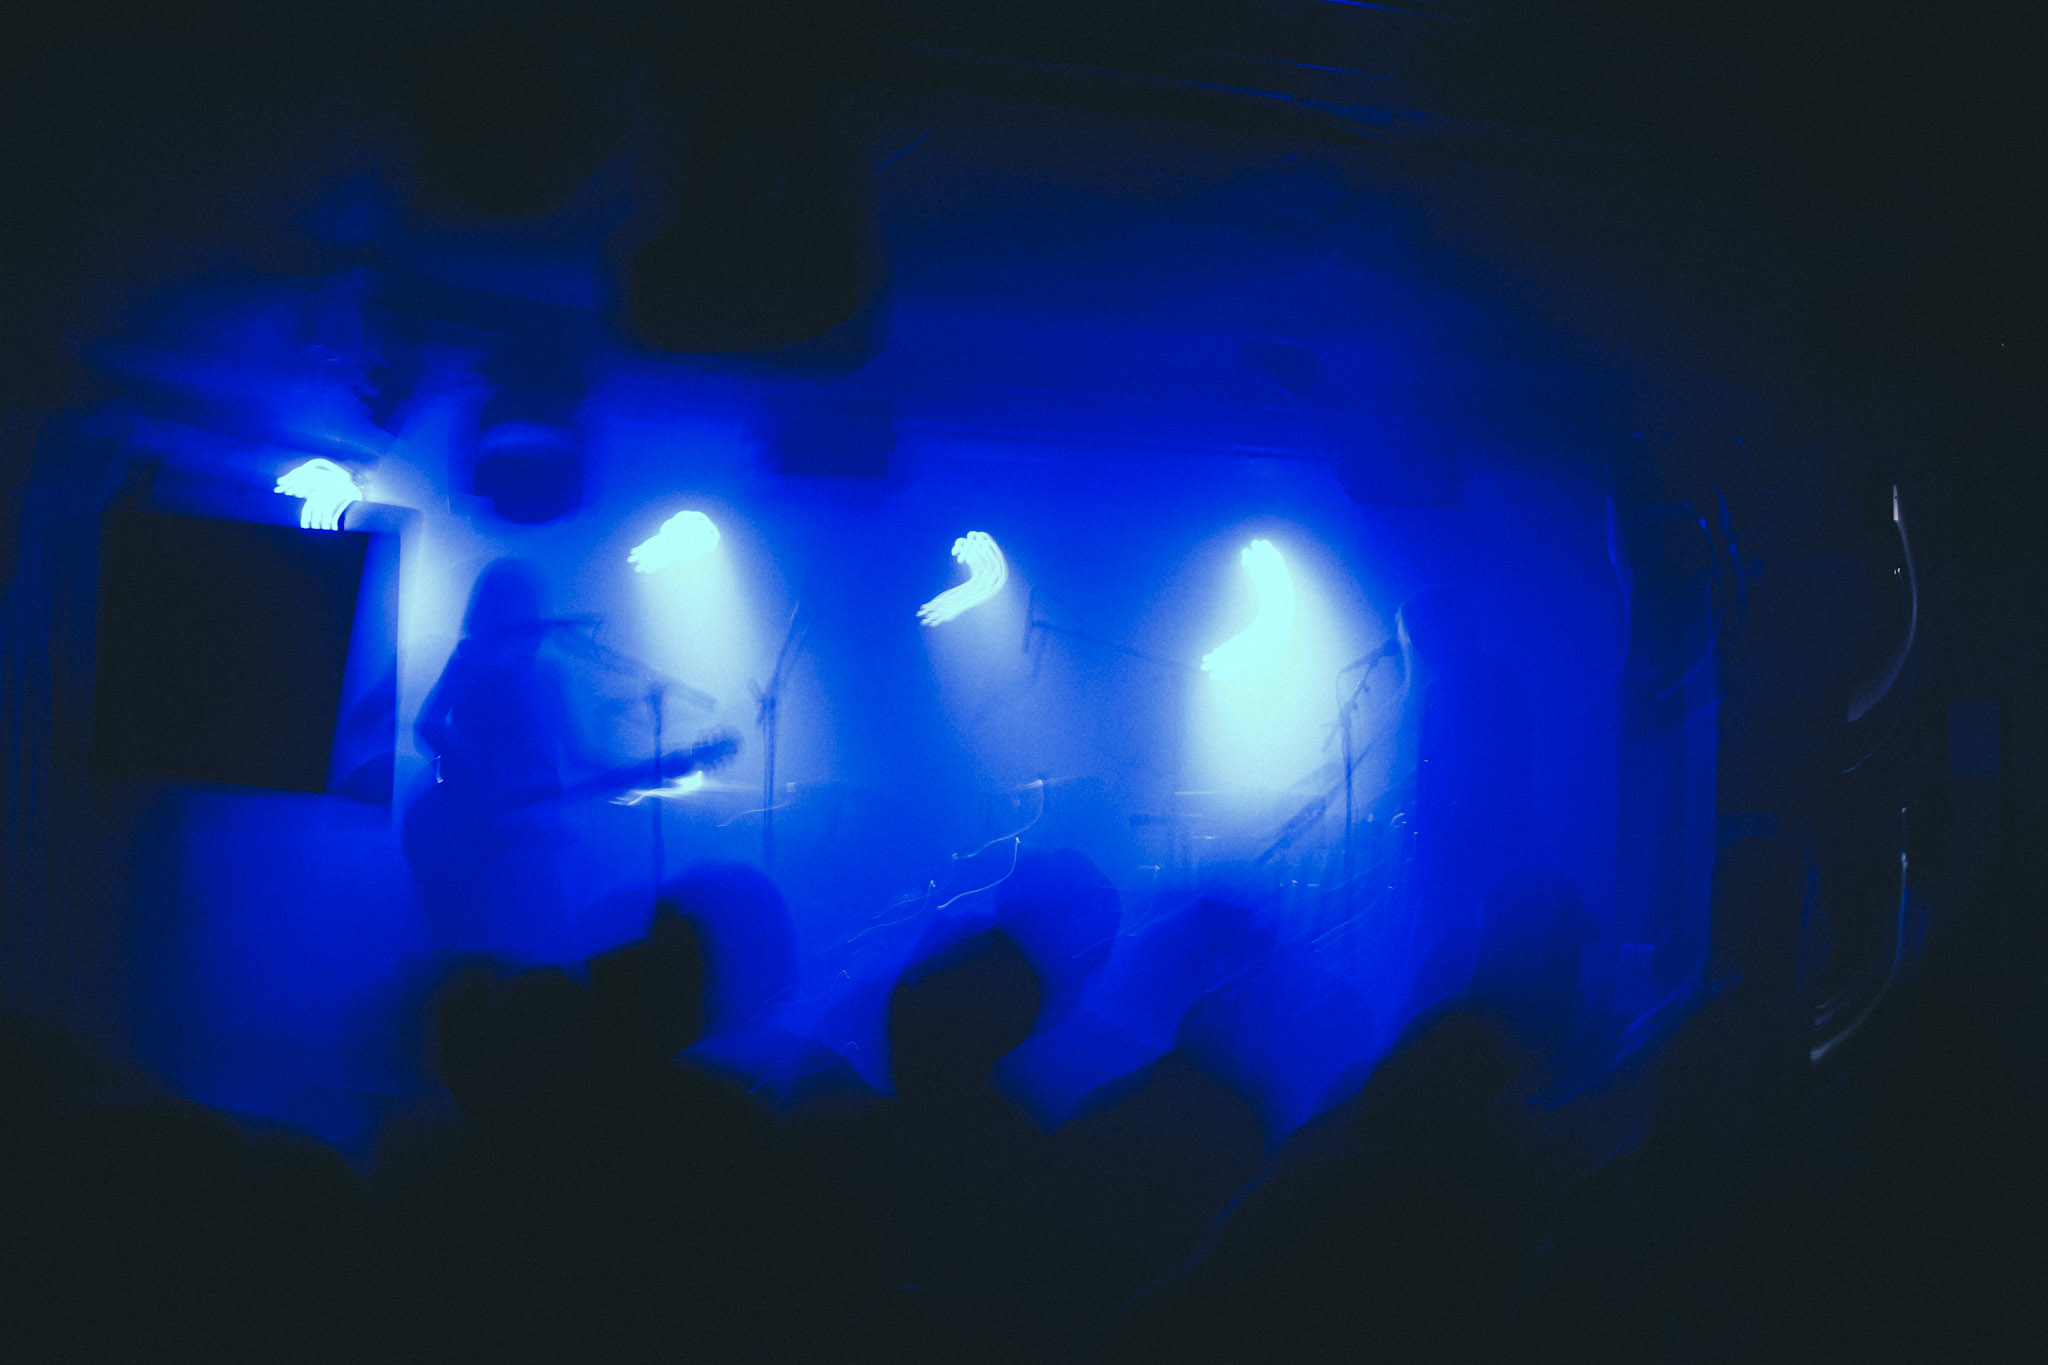
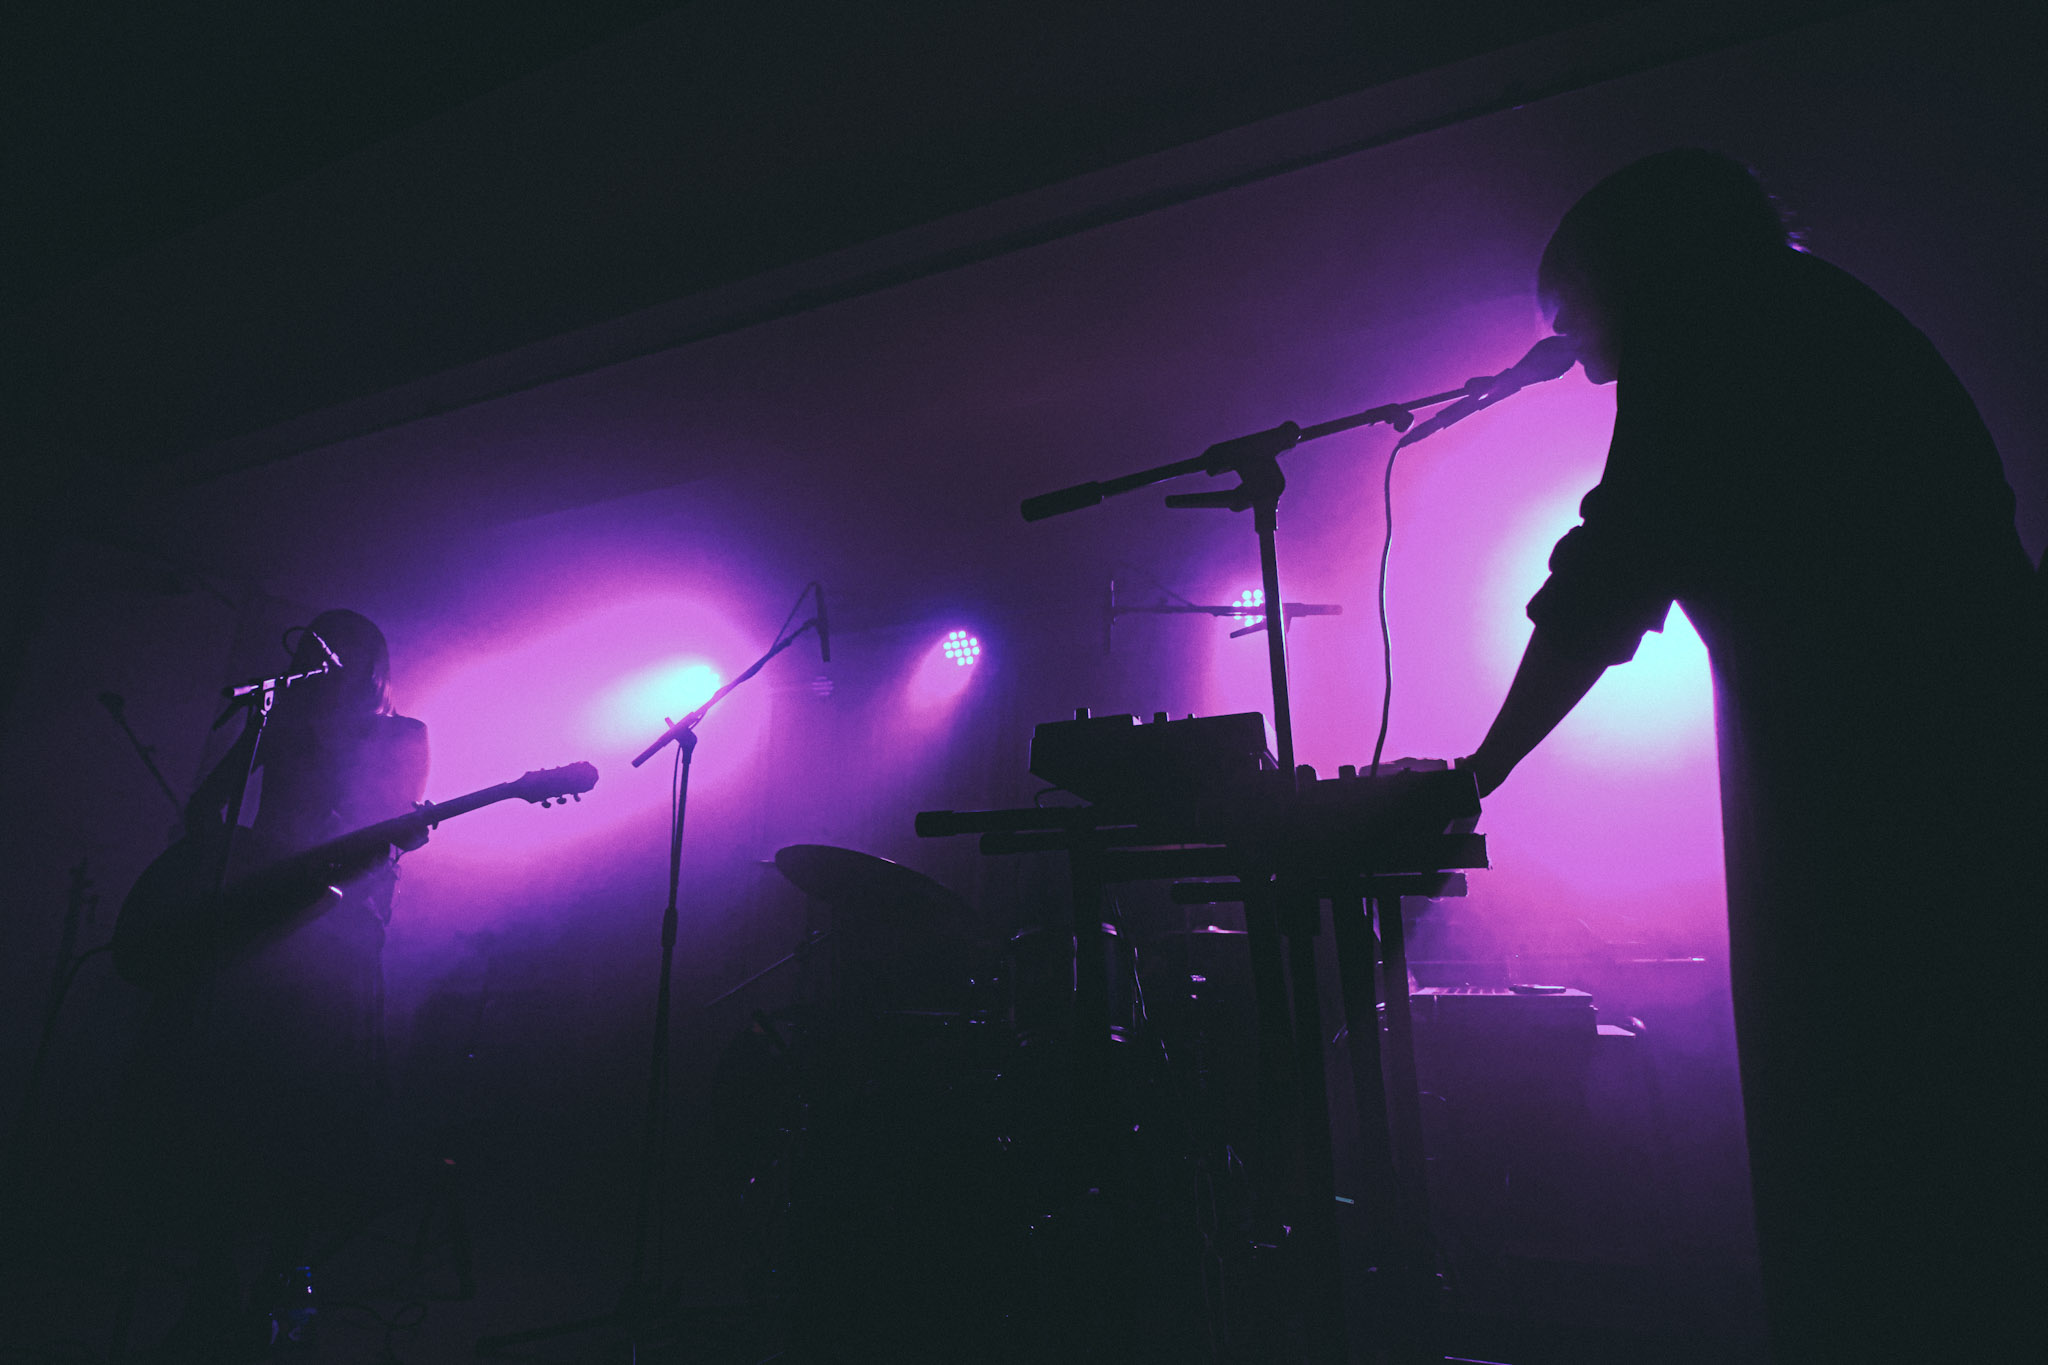
Add new images to gallery and reorder existing images for improved presentation

diff --git a/index.html b/index.html
@@ -22,15 +22,20 @@
 
   <!-- GALLERY -->
   <section class="gallery">
-    <img src="images/bosco.jpg" alt="">
-    <img src="images/brogo.jpg" alt="">
     <img src="images/church.jpg" alt="">
-    <img src="images/club27.jpg" alt="">
-    <img src="images/drummer.jpg" alt="">
     <img src="images/elastic.jpg" alt="">
     <img src="images/granny.jpg" alt="">
+    <img src="images/drummer.jpg" alt="">
+    <img src="images/bosco.jpg" alt="">
+    <img src="images/brogo.jpg" alt="">
+    <img src="images/club27.jpg" alt="">
     <img src="images/kid.jpg" alt="">
     <img src="images/pinkroom.jpg" alt="">
+    <img src="images/whitehotel.jpg" alt="">
+    <img src="images/waxx.jpeg" alt="">
+    <img src="images/sherwood.jpg" alt="">
+    <img src="images/phantoms.jpg" alt="">
+    <img src="images/jake.jpg" alt="">
     <img src="images/pontile.jpg" alt="">
     <img src="images/sherwood.jpg" alt="">
   </section>